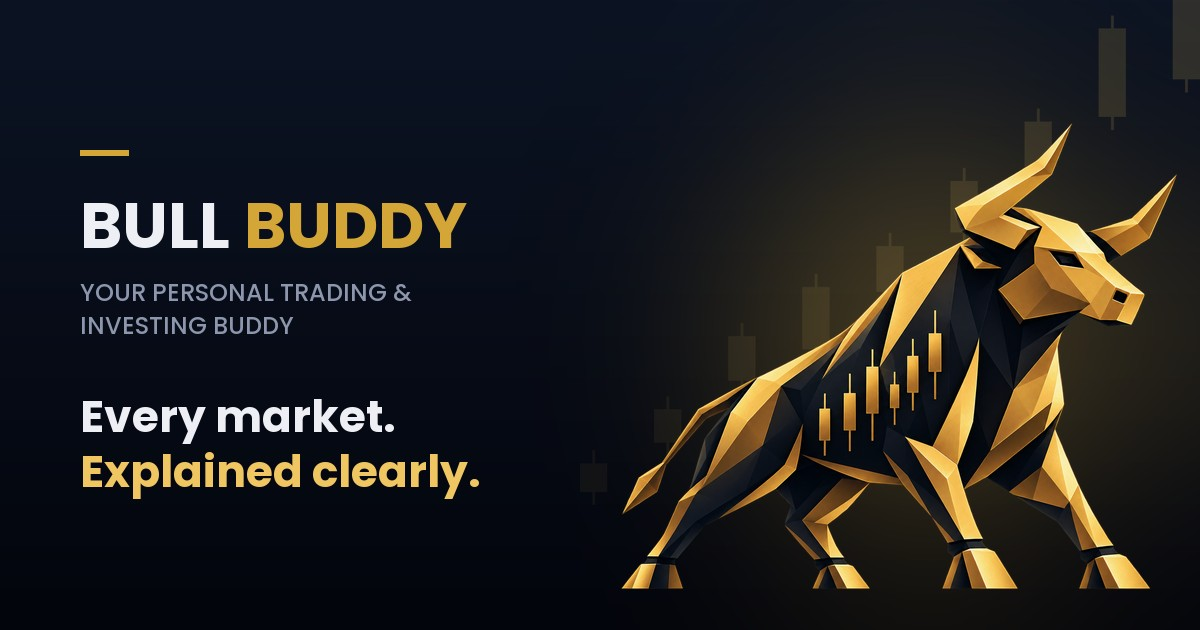
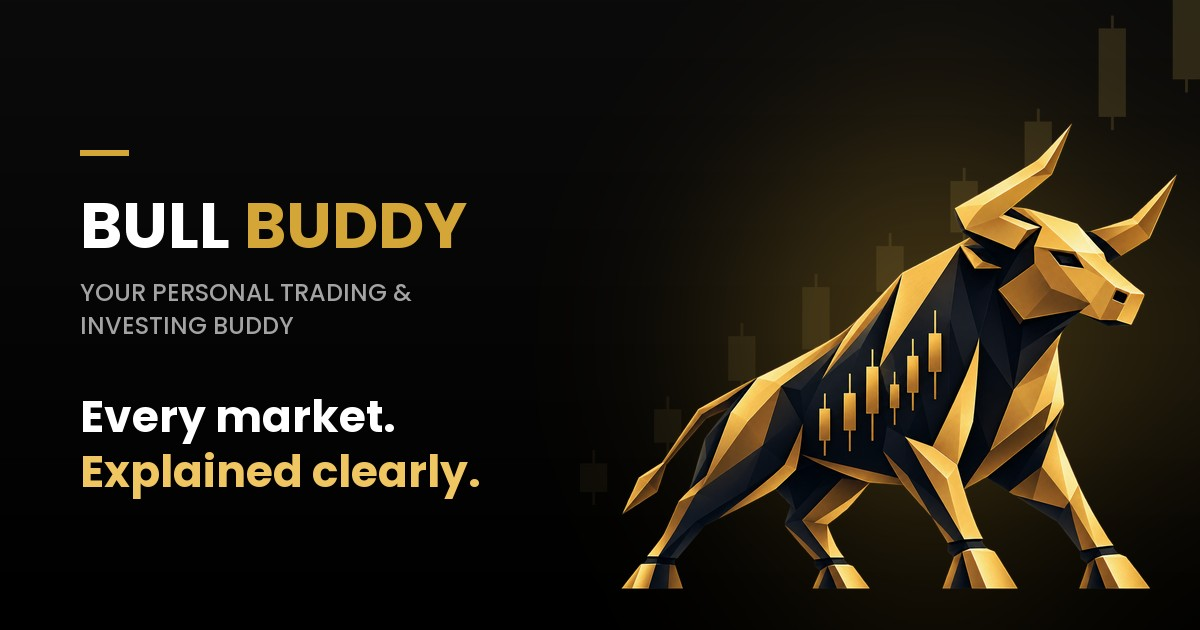
Bull Buddy: black palette, one-screen mobile hero

diff --git a/public/bullbuddy/site.css b/public/bullbuddy/site.css
@@ -1,4 +1,5 @@
-/* Bull Buddy — landing page. Scoped to .bb-site so the ChartsGPT globals
+/* Bull Buddy — landing page. Black, gold and white; green and red only for
+   bullish and bearish moves. Scoped to .bb-site so the ChartsGPT globals
    (loaded on every page) never leak in, and vice versa. */
 
 @font-face { font-family: "Poppins"; src: url("/bullbuddy/fonts/Poppins-Regular.woff2") format("woff2"); font-weight: 400; font-display: swap; }
@@ -8,15 +9,15 @@
 
 .bb-site {
   /* Brand tokens */
-  --bb-bg: #0B1220;
-  --bb-bg-2: #10182B;
-  --bb-card: #141D32;
-  --bb-border: #28304A;
+  --bb-bg: #000000;
+  --bb-bg-2: #0A0A0A;
+  --bb-card: #111111;
+  --bb-border: #262626;
   --bb-gold: #D4A537;
   --bb-gold-bright: #F0C662;
-  --bb-text: #EDEFF4;
-  --bb-text-muted: #8C96AC;
-  --bb-muted: #5B6478;
+  --bb-text: #FFFFFF;
+  --bb-text-muted: #A3A3A3;
+  --bb-muted: #5E5E5E;
   --bb-positive: #1FAE6B;
   --bb-negative: #E4483C;
   --bb-radius: 28px;
@@ -32,7 +33,7 @@
   -webkit-font-smoothing: antialiased;
 }
 
-html:has(.bb-site), body:has(.bb-site) { margin: 0; background: #0B1220; }
+html:has(.bb-site), body:has(.bb-site) { margin: 0; background: #000000; }
 :where(.bb-site) *, :where(.bb-site) *::before, :where(.bb-site) *::after { box-sizing: border-box; }
 :where(.bb-site) img { max-width: 100%; height: auto; display: block; }
 :where(.bb-site) a { color: inherit; text-decoration: none; }
@@ -84,10 +85,10 @@ html:has(.bb-site), body:has(.bb-site) { margin: 0; background: #0B1220; }
   position: sticky;
   top: 0;
   z-index: 40;
-  background: rgba(11, 18, 32, 0.78);
+  background: rgba(0, 0, 0, 0.72);
   backdrop-filter: saturate(160%) blur(16px);
   -webkit-backdrop-filter: saturate(160%) blur(16px);
-  border-bottom: 1px solid rgba(40, 48, 74, 0.6);
+  border-bottom: 1px solid rgba(255, 255, 255, 0.07);
 }
 .bb-nav-inner { display: flex; align-items: center; gap: 24px; height: 68px; }
 .bb-brand { display: flex; align-items: center; gap: 10px; font-size: 17px; }
@@ -139,7 +140,7 @@ html:has(.bb-site), body:has(.bb-site) { margin: 0; background: #0B1220; }
   padding: 64px 0 72px;
   background:
     radial-gradient(50% 60% at 78% 45%, rgba(212, 165, 55, 0.16), transparent 70%),
-    linear-gradient(180deg, #0C1424 0%, #03050C 100%);
+    linear-gradient(180deg, #0B0B0B 0%, #000000 100%);
 }
 .bb-hero-grid { display: grid; grid-template-columns: 1.1fr 0.9fr; align-items: center; gap: 32px; }
 .bb-hero h1 { font-size: clamp(40px, 4.9vw, 66px); margin: 22px 0 18px; }
@@ -155,7 +156,7 @@ html:has(.bb-site), body:has(.bb-site) { margin: 0; background: #0B1220; }
   padding: 7px 14px;
   border-radius: 999px;
   border: 1px solid var(--bb-border);
-  background: rgba(20, 29, 50, 0.7);
+  background: rgba(17, 17, 17, 0.7);
   font-size: 12.5px;
   font-weight: 500;
   color: var(--bb-text-muted);
@@ -198,7 +199,7 @@ html:has(.bb-site), body:has(.bb-site) { margin: 0; background: #0B1220; }
   gap: 10px;
   padding: 10px 14px 10px 10px;
   border-radius: 18px;
-  background: rgba(20, 29, 50, 0.92);
+  background: rgba(17, 17, 17, 0.92);
   border: 1px solid var(--bb-border);
   box-shadow: 0 20px 50px rgba(0, 0, 0, 0.5);
   backdrop-filter: blur(12px);
@@ -221,7 +222,7 @@ html:has(.bb-site), body:has(.bb-site) { margin: 0; background: #0B1220; }
   flex: none;
   padding: 9px;
   border-radius: 46px;
-  background: linear-gradient(150deg, #39425a, #0c111c 45%, #222a3d);
+  background: linear-gradient(150deg, #3A3A3A, #0D0D0D 45%, #262626);
   box-shadow: 0 40px 90px rgba(0, 0, 0, 0.6), inset 0 0 0 1px rgba(255, 255, 255, 0.1);
 }
 .bb-screen {
@@ -230,7 +231,7 @@ html:has(.bb-site), body:has(.bb-site) { margin: 0; background: #0B1220; }
   overflow: hidden;
   border-radius: 38px;
   padding: 44px 14px 14px;
-  background: radial-gradient(120% 50% at 50% 0%, #121b30, var(--bb-bg) 60%);
+  background: radial-gradient(120% 50% at 50% 0%, #151515, var(--bb-bg) 60%);
   font-size: 11px;
   line-height: 1.35;
   color: var(--bb-text);
@@ -252,14 +253,14 @@ html:has(.bb-site), body:has(.bb-site) { margin: 0; background: #0B1220; }
 .ps-title { font-size: 19px; font-weight: 700; letter-spacing: -0.02em; margin-bottom: 10px; }
 
 .ps-tiles { display: grid; grid-template-columns: 1fr 1fr; gap: 6px; margin-bottom: 8px; }
-.ps-tiles div { padding: 8px 9px; border-radius: 12px; background: var(--bb-card); border: 1px solid rgba(40, 48, 74, 0.7); }
+.ps-tiles div { padding: 8px 9px; border-radius: 12px; background: var(--bb-card); border: 1px solid rgba(255, 255, 255, 0.07); }
 .ps-tiles small { display: block; font-size: 9px; color: var(--bb-text-muted); }
 .ps-tiles b { display: block; font-size: 13px; font-weight: 600; font-variant-numeric: tabular-nums; }
 .ps-tiles span { font-size: 9.5px; font-weight: 600; }
 .bb-screen .up { color: var(--bb-positive); }
 .bb-screen .down { color: var(--bb-negative); }
 
-.ps-card { padding: 10px 11px; border-radius: 14px; background: var(--bb-card); border: 1px solid rgba(40, 48, 74, 0.7); margin-bottom: 8px; }
+.ps-card { padding: 10px 11px; border-radius: 14px; background: var(--bb-card); border: 1px solid rgba(255, 255, 255, 0.07); margin-bottom: 8px; }
 .ps-eyebrow { display: block; font-size: 8.5px; font-weight: 600; letter-spacing: 0.14em; text-transform: uppercase; color: var(--bb-text-muted); margin-bottom: 4px; }
 .ps-eyebrow.gold, .ps-note.gold { color: var(--bb-gold-bright); }
 .ps-big { display: block; font-size: 20px; font-weight: 700; letter-spacing: -0.02em; }
@@ -283,14 +284,14 @@ html:has(.bb-site), body:has(.bb-site) { margin: 0; background: #0B1220; }
 .ps-sessions b { display: block; font-size: 10.5px; }
 .ps-note { font-size: 9.5px; }
 
-.ps-list { border-radius: 14px; background: var(--bb-card); border: 1px solid rgba(40, 48, 74, 0.7); padding: 2px 11px; }
-.ps-list div { display: grid; grid-template-columns: 1fr auto 52px; align-items: center; gap: 8px; padding: 8px 0; border-bottom: 1px solid rgba(40, 48, 74, 0.6); font-variant-numeric: tabular-nums; }
+.ps-list { border-radius: 14px; background: var(--bb-card); border: 1px solid rgba(255, 255, 255, 0.07); padding: 2px 11px; }
+.ps-list div { display: grid; grid-template-columns: 1fr auto 52px; align-items: center; gap: 8px; padding: 8px 0; border-bottom: 1px solid rgba(255, 255, 255, 0.07); font-variant-numeric: tabular-nums; }
 .ps-list div:last-child { border-bottom: 0; }
 .ps-list b { font-size: 11.5px; }
 .ps-list em { font-style: normal; font-weight: 600; font-size: 10px; text-align: right; }
 
 .ps-alerts { display: grid; gap: 6px; }
-.ps-alerts div { display: flex; align-items: center; gap: 8px; padding: 8px; border-radius: 12px; background: var(--bb-card); border: 1px solid rgba(40, 48, 74, 0.7); }
+.ps-alerts div { display: flex; align-items: center; gap: 8px; padding: 8px; border-radius: 12px; background: var(--bb-card); border: 1px solid rgba(255, 255, 255, 0.07); }
 .ps-alerts i { display: grid; place-items: center; flex: none; width: 26px; height: 26px; border-radius: 50%; }
 .ps-alerts i svg { width: 13px; height: 13px; }
 .ps-alerts i.up { background: rgba(31, 174, 107, 0.14); }
@@ -313,7 +314,7 @@ html:has(.bb-site), body:has(.bb-site) { margin: 0; background: #0B1220; }
 .ps-ring { width: 46px; height: 46px; border-radius: 50%; background: conic-gradient(var(--bb-gold) 0 62%, var(--bb-bg-2) 62% 100%); display: grid; place-items: center; }
 .ps-ring i { width: 36px; height: 36px; border-radius: 50%; background: var(--bb-card); }
 .ps-lessons { display: grid; gap: 6px; }
-.ps-lessons div { position: relative; padding: 9px 10px 12px; border-radius: 12px; background: var(--bb-card); border: 1px solid rgba(40, 48, 74, 0.7); overflow: hidden; }
+.ps-lessons div { position: relative; padding: 9px 10px 12px; border-radius: 12px; background: var(--bb-card); border: 1px solid rgba(255, 255, 255, 0.07); overflow: hidden; }
 .ps-lessons b { display: block; font-size: 11.5px; }
 .ps-lessons span { font-size: 9.5px; color: var(--bb-text-muted); }
 .ps-lessons i { position: absolute; left: 0; bottom: 0; height: 3px; background: var(--bb-gold); }
@@ -412,7 +413,7 @@ html:has(.bb-site), body:has(.bb-site) { margin: 0; background: #0B1220; }
   gap: 56px;
   padding: 56px;
   border-radius: var(--bb-radius);
-  background: linear-gradient(160deg, var(--bb-bg-2), #0A1120 70%);
+  background: linear-gradient(160deg, var(--bb-bg-2), #050505 70%);
   border: 1px solid var(--bb-border);
   position: relative;
   overflow: hidden;
@@ -472,7 +473,7 @@ html:has(.bb-site), body:has(.bb-site) { margin: 0; background: #0B1220; }
   padding: 12px 14px;
   border-radius: 16px;
   background: var(--bb-bg-2);
-  border: 1px solid rgba(40, 48, 74, 0.7);
+  border: 1px solid rgba(255, 255, 255, 0.07);
 }
 .bb-alert i { display: grid; place-items: center; width: 36px; height: 36px; flex: none; border-radius: 50%; font-style: normal; font-weight: 700; }
 .bb-alert div { flex: 1; min-width: 0; }
@@ -528,7 +529,7 @@ html:has(.bb-site), body:has(.bb-site) { margin: 0; background: #0B1220; }
   border: 1px solid var(--bb-border);
   background:
     radial-gradient(60% 80% at 50% 0%, rgba(212, 165, 55, 0.22), transparent 70%),
-    linear-gradient(180deg, #0C1424, #03050C);
+    linear-gradient(180deg, #0B0B0B, #000000);
 }
 .bb-cta img { margin: 0 auto 22px; }
 .bb-cta h2 { margin: 16px auto 14px; max-width: 16em; }
@@ -556,22 +557,42 @@ html:has(.bb-site), body:has(.bb-site) { margin: 0; background: #0B1220; }
 @media (max-width: 860px) {
   .bb-navlinks { display: none; }
   .bb-nav-inner { justify-content: space-between; height: 60px; }
-  .bb-hero { padding: 28px 0 24px; }
-  .bb-hero-grid { grid-template-columns: 1fr; gap: 8px; }
+  /* The first screen is exactly one screen: copy, the app rising out of the
+     bottom, and the market strip as its lower edge — kept clear of the
+     floating browser bar (about 84px in iOS Safari). */
+  .bb-hero {
+    --bb-browser-bar: 84px;
+    height: calc(100svh - 60px - 58px - var(--bb-browser-bar));
+    min-height: 580px;
+    padding: 22px 0 0;
+  }
+  .bb-hero > .bb-wrap { height: 100%; }
+  .bb-hero-grid { display: flex; flex-direction: column; height: 100%; gap: 0; }
   .bb-hero-copy { text-align: center; display: flex; flex-direction: column; align-items: center; }
-  .bb-hero h1 { font-size: clamp(36px, 10vw, 56px); margin: 18px 0 12px; }
-  .bb-hero .bb-tagline { font-size: 10.5px; letter-spacing: 0.12em; margin-bottom: 12px; }
-  .bb-lead { font-size: 16px; max-width: 24em; }
-  .bb-actions { justify-content: center; margin-top: 22px; }
-  .bb-micro { font-size: 12px; margin-top: 12px; }
+  .bb-hero h1 { font-size: clamp(36px, 10vw, 56px); margin: 16px 0 10px; }
+  .bb-hero .bb-tagline { font-size: 10.5px; letter-spacing: 0.12em; margin-bottom: 10px; }
+  .bb-lead { font-size: 15.5px; max-width: 23em; }
+  .bb-actions { justify-content: center; margin-top: 20px; }
+  .bb-micro, .bb-float-spike { display: none; }
 
-  .bb-stage { height: 500px; width: 100%; max-width: 420px; margin: 8px auto 0; }
-  .bb-stage-phone { left: 50%; top: 24px; transform: translateX(-50%) scale(0.8); transform-origin: top center; }
-  .bb-stage-bull { width: 80%; right: -10%; top: 70px; }
-  .bb-candles { width: 80%; right: -14%; top: -2%; }
-  .bb-float-alert { left: auto; right: -4px; top: 70px; transform-origin: right; scale: 0.86; }
-  .bb-float-spike { left: -4px; bottom: 70px; transform-origin: left; scale: 0.86; }
+  .bb-stage {
+    flex: 1;
+    min-height: 0;
+    height: auto;
+    width: 100%;
+    max-width: 420px;
+    margin: 18px auto 0;
+    -webkit-mask-image: linear-gradient(180deg, #000 72%, transparent 100%);
+            mask-image: linear-gradient(180deg, #000 72%, transparent 100%);
+  }
+  .bb-glow { inset: 0 -20% 10% -20%; }
+  .bb-stage-phone { left: 50%; top: 26px; transform: translateX(-50%) scale(0.8); transform-origin: top center; }
+  .bb-stage-bull { width: 128%; left: -6%; right: auto; top: 0; }
+  .bb-candles { width: 90%; right: -20%; top: -6%; }
+  .bb-float-alert { left: auto; right: -6px; top: 92px; transform-origin: right; scale: 0.84; }
 
+  .bb-marquee { height: 58px; padding: 0; display: flex; align-items: center; }
+  .bb-marquee li { font-size: 13px; gap: 28px; padding-right: 28px; }
   .bb-heading { text-align: center; margin-inline: auto; }
   .bb-feature, .bb-faq-wrap { grid-template-columns: 1fr; }
   .bb-feature-reverse .bb-feature-copy { order: 0; }
@@ -627,7 +648,7 @@ html:has(.bb-site), body:has(.bb-site) { margin: 0; background: #0B1220; }
 
 /* ---------- Legal & support pages ---------- */
 
-.bb-legal-hero { padding: 64px 0 40px; background: linear-gradient(180deg, #0C1424 0%, var(--bb-bg) 100%); border-bottom: 1px solid var(--bb-border); }
+.bb-legal-hero { padding: 64px 0 40px; background: linear-gradient(180deg, #0B0B0B 0%, var(--bb-bg) 100%); border-bottom: 1px solid var(--bb-border); }
 .bb-legal-hero h1 { font-size: clamp(36px, 5vw, 56px); margin: 10px 0 14px; }
 .bb-legal-hero p { font-size: 17px; max-width: 40em; }
 .bb-updated { display: inline-block; margin-top: 18px; padding: 5px 12px; border-radius: 999px; background: var(--bb-card); border: 1px solid var(--bb-border); font-size: 12px; color: var(--bb-text-muted); }
@@ -643,7 +664,7 @@ html:has(.bb-site), body:has(.bb-site) { margin: 0; background: #0B1220; }
 .bb-copy section:last-child { border-bottom: 0; }
 .bb-copy h2 { font-size: 22px; letter-spacing: -0.01em; margin-bottom: 14px; }
 .bb-copy h3 { font-size: 16px; margin: 20px 0 8px; }
-.bb-copy p, .bb-copy li { font-size: 15.5px; line-height: 1.75; color: #B4BCCC; }
+.bb-copy p, .bb-copy li { font-size: 15.5px; line-height: 1.75; color: #C7C7C7; }
 .bb-copy p + p { margin-top: 12px; }
 .bb-copy ul { padding-left: 20px; margin-top: 10px; display: grid; gap: 6px; }
 .bb-copy strong { color: var(--bb-text); font-weight: 600; }
